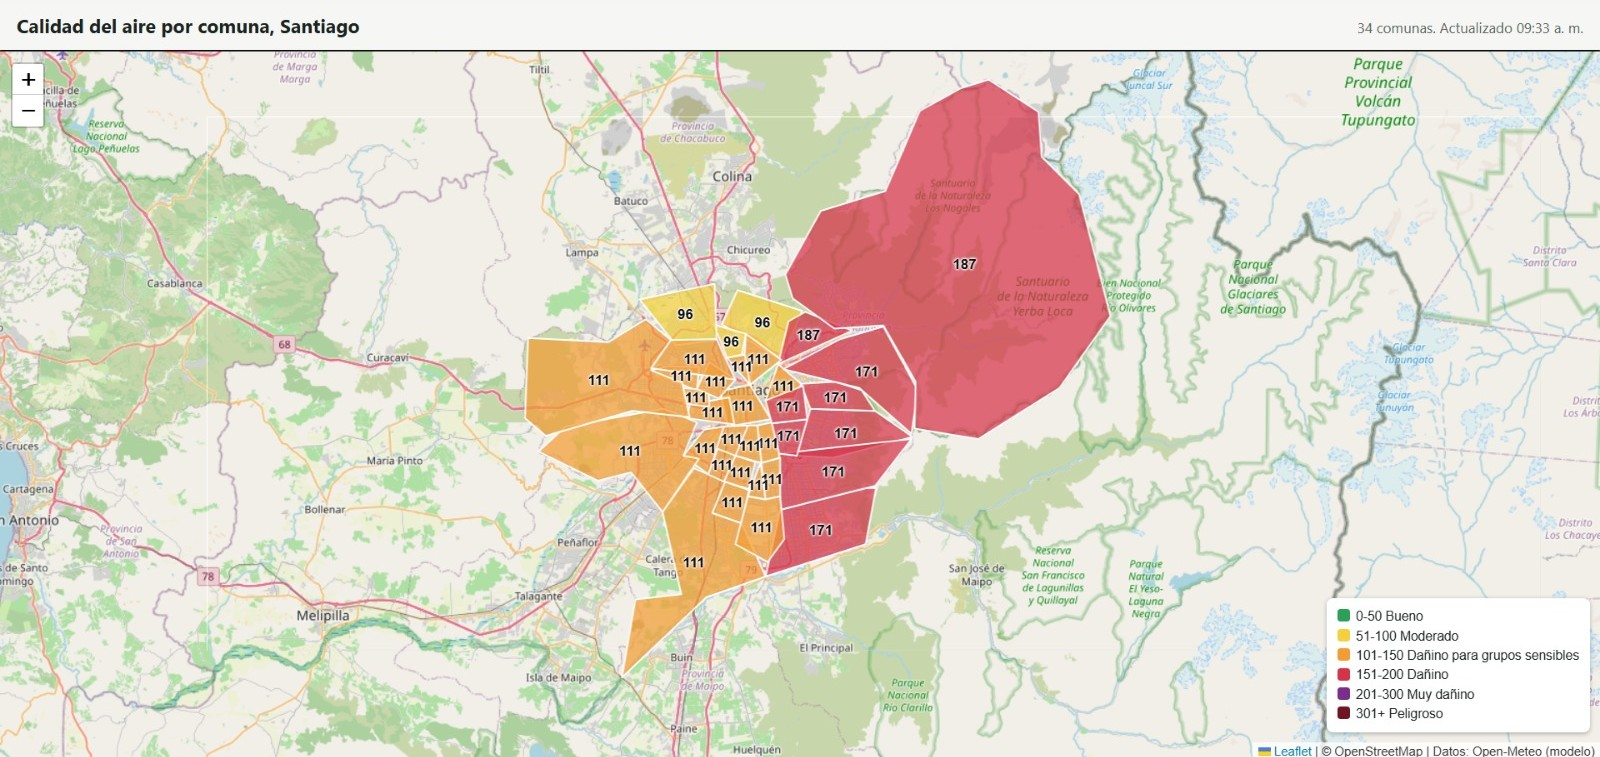
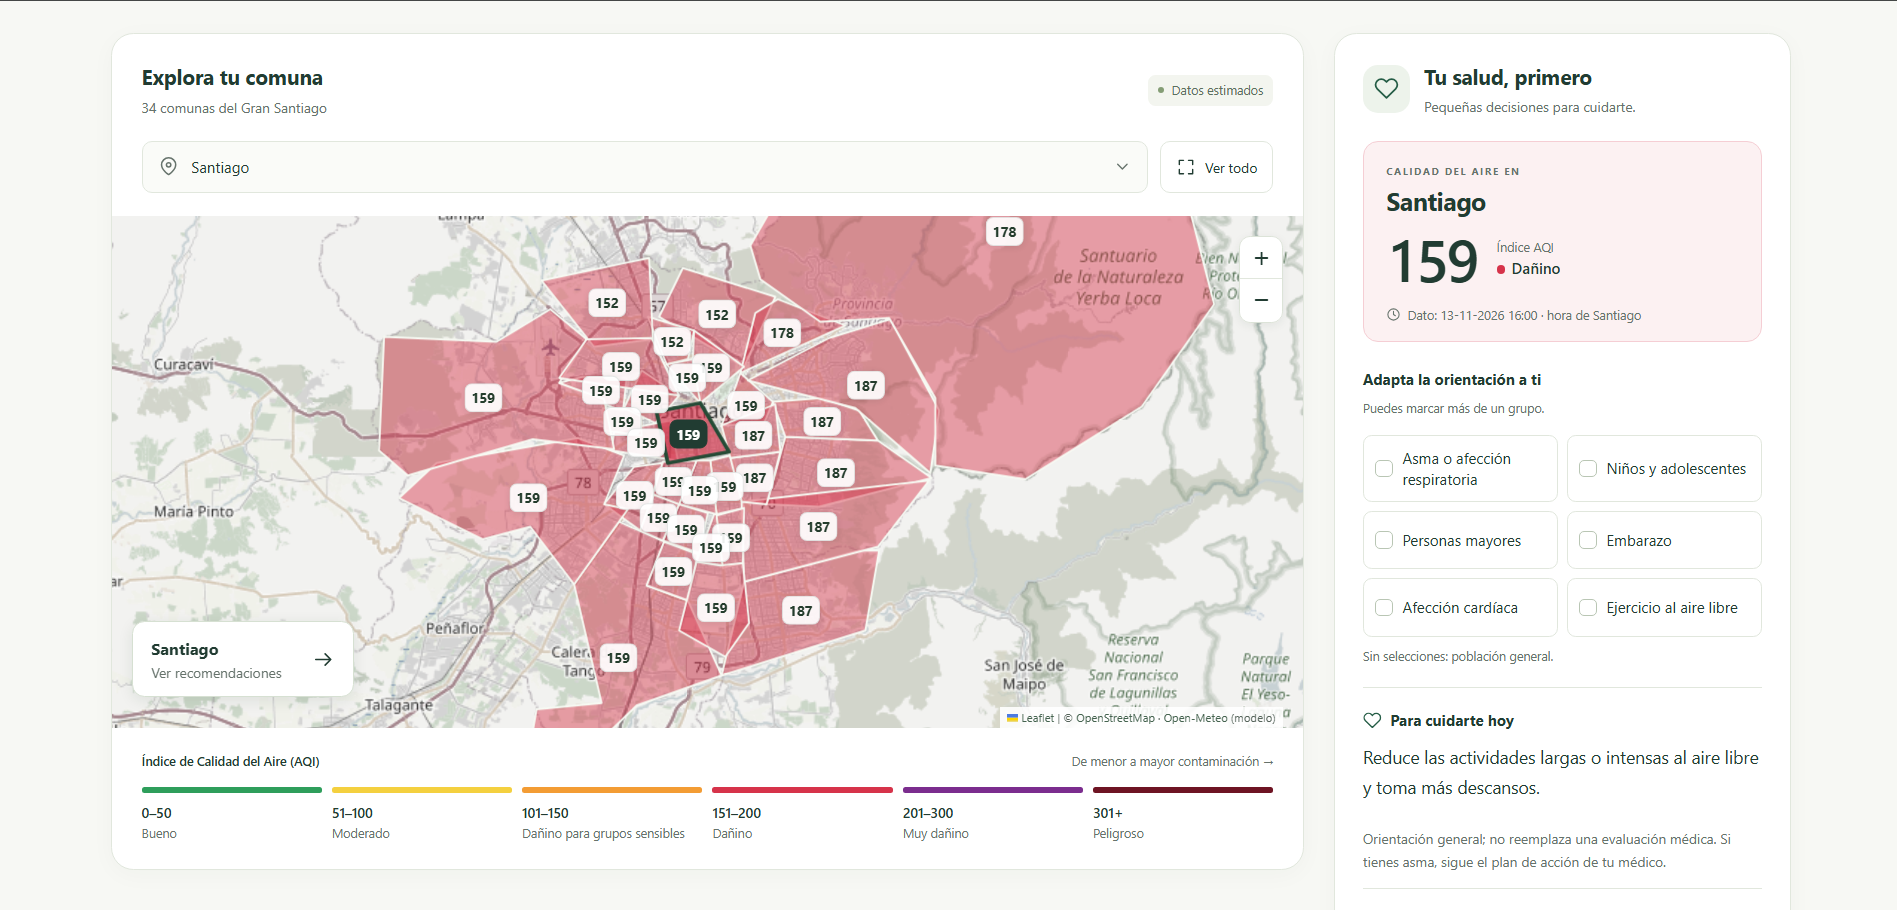
pythonanywhere

diff --git a/README.md b/README.md
@@ -1,155 +1,287 @@
 # Santiago500 sin smog
 
-Aplicación web que muestra la calidad del aire en las comunas del Gran Santiago sobre un mapa interactivo. Cada comuna se pinta con el color de su nivel de contaminación (índice AQI) y muestra el valor en el centro.
+**Conoce el aire que respiras.**
 
-Proyecto para el curso **IWG400 Proyecto Inicial**, Universidad Técnica Federico Santa María.
+Aplicación web en español para explorar la calidad del aire en las **34 comunas del Gran Santiago** y consultar orientación de salud según el índice AQI y distintos grupos de riesgo.
 
-![Mapa de calidad del aire por comuna](docs/mapa.png)
+**[Abrir la aplicación](https://vescoar.pythonanywhere.com/)** · [Repositorio](https://github.com/vescoar/santiago500)
 
-## Qué hace
+Proyecto desarrollado para **IWG400 — Proyecto Inicial**, Universidad Técnica Federico Santa María.
 
-- Mapa de Santiago con las 34 comunas del Gran Santiago coloreadas según su AQI.
-- Número de AQI en el centro de cada comuna (aparece al acercar el zoom, para que no se amontonen).
-- Selección de comuna desde el mapa o un selector accesible con teclado. La comuna queda resaltada y su ficha muestra nombre, AQI, categoría y fecha del dato.
-- Panel «Tu salud, primero»: orientación en español según el AQI y los grupos seleccionados (asma o afecciones respiratorias, infancia, personas mayores, embarazo, enfermedades cardiovasculares y ejercicio exterior). Permite combinar grupos y limpiar la selección; sin selecciones, orienta a la población general.
-- Interfaz adaptable a computador, tablet y celular, con leyenda fuera del mapa, acceso directo a las recomendaciones y una guía breve para interpretar los datos.
-- Vista inicial centrada en el área urbana; «Ver todo» muestra los límites completos de las comunas. El botón «Actualizar» permite volver a consultar los datos respetando la caché del servidor.
-- Leyenda con las categorías de la escala AQI de la EPA, de "Bueno" a "Peligroso".
-- Los datos se guardan en base de datos y se refrescan automáticamente cada 10 minutos.
-- Si la API externa falla, el mapa sigue mostrando los últimos datos guardados y avisa del problema.
+[![Mapa de calidad del aire con Santiago seleccionado y su panel de orientación de salud](docs/mapa.png)](https://vescoar.pythonanywhere.com/)
 
-## Tecnologías
+*Vista de la aplicación. Haz clic en la imagen para explorar el mapa; los valores mostrados corresponden al momento de la captura.*
 
-| Parte | Herramienta |
-|---|---|
-| Backend | Python y Django |
-| Base de datos | SQLite |
-| Mapa | Leaflet con teselas de OpenStreetMap |
-| Datos de calidad del aire | API de Open-Meteo (Air Quality) |
-| Límites de comunas | GeoJSON de [fcortes/Chile-GeoJSON](https://github.com/fcortes/Chile-GeoJSON) |
+## Propósito
+
+Acercar la información de calidad del aire a las personas y ayudar a interpretar lo que significa para sus actividades cotidianas. El mapa permite consultar una comuna y conectar su nivel de contaminación con orientación general de salud.
+
+Los valores provienen de un modelo atmosférico de Open-Meteo. **No son mediciones de estaciones locales ni reemplazan la información oficial o una evaluación médica.**
+
+## Cómo usar la aplicación
+
+1. Elige una comuna haciendo clic en el mapa o usando el selector.
+2. Consulta su AQI, categoría y fecha del dato en la ficha lateral.
+3. Marca los grupos que correspondan para adaptar la orientación. Puedes combinar varios; sin selecciones, se muestra orientación para la población general.
+4. Usa **Limpiar** para restablecer los grupos y **Ver todo** para ver los límites completos de las comunas.
+
+En celular, el panel de salud aparece debajo del mapa. El enlace **Ver recomendaciones** lleva directamente a él.
+
+## Funcionalidades
+
+- **Mapa por comuna:** polígonos coloreados según el AQI, etiquetas numéricas al acercar el mapa y resaltado de la comuna elegida.
+- **Orientación de salud:** consejos para asma u otras afecciones respiratorias, niños y adolescentes, personas mayores, embarazo, enfermedades cardiovasculares y ejercicio al aire libre.
+- **Navegación accesible:** selector utilizable con teclado, categorías escritas junto a los colores e interfaz adaptable a computador, tablet y celular.
+- **Persistencia:** almacenamiento de zonas de monitoreo y registros de AQI en SQLite.
+- **Consulta periódica:** el navegador vuelve a pedir información cada 10 minutos mientras la página permanece abierta. El botón **Actualizar** permite repetir la consulta manualmente.
+- **Manejo de fallos de la fuente externa:** ante errores de consulta controlados, se devuelven los últimos registros guardados y se muestra un aviso.
+- **Administración:** consulta de zonas y registros desde el administrador de Django.
 
 ## Cómo funciona
 
-1. El navegador carga la página del mapa y pide los datos a `/api/estaciones/`.
-2. Django revisa cuándo se guardó el último registro. Si tiene más de 10 minutos, consulta Open-Meteo, que entrega el AQI actual para un punto de cada comuna.
-3. Los resultados se guardan en dos modelos: `ZonaMonitoreo` (comuna y coordenadas) y `RegistroContaminacion` (AQI y hora).
-4. El endpoint devuelve el último registro de cada comuna en JSON.
-5. El frontend une esos datos con el archivo `comunas.geojson`, pinta cada polígono según su nivel y pone el número en su centro.
+1. Django entrega la página principal y el navegador carga los límites de las comunas desde `comunas.geojson`.
+2. El navegador consulta `/api/estaciones/`.
+3. Django busca el registro guardado más recientemente. Si no existe o fue creado hace más de 10 minutos, consulta Open-Meteo con las coordenadas aproximadas de las 34 comunas.
+4. Los datos nuevos se guardan en SQLite, evitando duplicados para una misma zona y fecha del dato.
+5. El endpoint devuelve el último AQI disponible por comuna. El navegador actualiza los colores, las etiquetas y la ficha seleccionada.
+6. La orientación se calcula en el navegador según el AQI y los grupos elegidos, sin enviar esas selecciones al servidor.
 
-## Limitaciones y decisiones de diseño
+La fecha del dato y la fecha de guardado son distintas. Una consulta exitosa puede devolver un dato con una fecha ya existente y no crear registros nuevos. **No hay un proceso programado que recolecte datos cuando nadie consulta la aplicación.**
 
-- **Los datos son modelados, no mediciones de estaciones.** Open-Meteo entrega estimaciones de un modelo atmosférico. Es una buena aproximación general, pero no reemplaza las mediciones oficiales.
-- **La resolución del modelo es más gruesa que una comuna.** Por eso comunas vecinas suelen compartir el mismo valor y el mismo color.
-- **Los polígonos incluyen zonas no urbanas.** Comunas como Lo Barnechea, Las Condes o Puente Alto llegan hasta la cordillera, y el color representa un solo punto de la comuna.
-- **Por qué no usamos estaciones reales:** primero probamos la API de WAQI/AQICN con las estaciones de Santiago, pero al momento de las pruebas todas reportaban `"aqi":"-"` con datos de hacía varios días. Por eso cambiamos a Open-Meteo, que siempre entrega datos actuales.
-- Las coordenadas usadas para cada comuna son aproximadas.
-- **La orientación de salud es general.** Los textos se adaptan de las guías [EPA/AirNow de partículas](https://document.airnow.gov/air-quality-guide-for-particle-pollution.pdf) y [ozono](https://document.airnow.gov/air-quality-guide-for-ozone.pdf). Como el mapa muestra el AQI agregado y no identifica el contaminante dominante, se usan precauciones generales, sin recomendar horarios específicos. No reemplazan una evaluación médica ni el plan de acción para el asma. Los grupos elegidos se mantienen solo en la página abierta y no se envían al servidor.
+## Tecnologías
 
-## Instalación (Windows)
+| Componente | Tecnología |
+| --- | --- |
+| Servidor y administración | Python y Django |
+| Base de datos | SQLite |
+| Interfaz | HTML, CSS y JavaScript |
+| Mapa interactivo | Leaflet |
+| Mapa base | OpenStreetMap |
+| Calidad del aire | API de Open-Meteo Air Quality |
+| Límites geográficos | GeoJSON de comunas de Chile |
+| Alojamiento de la versión publicada | PythonAnywhere |
 
-Requisitos: Python 3 y Git.
+### Modelo de datos
 
-```
-git clone https://github.com/TU_USUARIO/TU_REPOSITORIO.git
-cd TU_REPOSITORIO
+| Modelo | Información almacenada |
+| --- | --- |
+| `ZonaMonitoreo` | Identificador de la zona, nombre de la comuna, latitud y longitud. |
+| `RegistroContaminacion` | Zona asociada, AQI, fecha del dato (`medido_en`) y fecha de guardado (`creado_en`). |
+
+Una zona puede tener varios registros. La combinación de zona y fecha del dato es única. La interfaz muestra el registro más reciente; el historial se conserva en la base de datos.
+
+## Instalación local
+
+Requisitos: **Python 3.12 o superior**, Git y conexión a Internet para descargar dependencias, consultar la API y cargar los recursos externos del mapa. Las versiones de los paquetes están definidas en `requirements.txt`.
+
+### Windows
+
+Desde PowerShell o el Símbolo del sistema:
+
+```powershell
+git clone https://github.com/vescoar/santiago500.git
+cd santiago500
 python -m venv venv
-venv\Scripts\activate
-pip install -r requirements.txt
+.\venv\Scripts\python.exe -m pip install -r requirements.txt
+.\venv\Scripts\python.exe manage.py migrate
+.\venv\Scripts\python.exe manage.py runserver
+```
+
+Se utiliza directamente el Python del entorno virtual para evitar depender de su activación en PowerShell.
+
+### Linux o macOS
+
+```bash
+git clone https://github.com/vescoar/santiago500.git
+cd santiago500
+python3 -m venv venv
+source venv/bin/activate
+python -m pip install -r requirements.txt
 python manage.py migrate
 python manage.py runserver
 ```
 
-Luego abre http://localhost:8000.
+Abre **http://127.0.0.1:8000/**. La primera consulta puede tardar unos segundos mientras se obtienen los datos.
 
-Notas:
-- Usa el **Símbolo del sistema (cmd)**. En PowerShell, la activación del entorno virtual puede estar bloqueada.
-- No hace falta ningún token ni archivo `.env` para los datos de Open-Meteo.
-- La primera carga puede demorar unos segundos, porque en ese momento se consultan los datos.
-- Para ver los datos guardados, crea un administrador con `python manage.py createsuperuser` y entra a `/admin`.
+Open-Meteo no requiere un token para esta integración. El GeoJSON ya viene incluido. La base `db.sqlite3` se crea con las migraciones y no se incluye en el repositorio.
 
-## Archivos estáticos en Vercel
+Para acceder a `/admin/`, ejecuta `python manage.py createsuperuser` usando el Python de tu entorno virtual.
 
-Con el soporte nativo de Django de Vercel, `STATIC_ROOT` activa la recopilación automática de archivos durante el despliegue. Vercel publica el contenido de `staticfiles/` en `/static/` desde su CDN. Esto incluye el CSS, los scripts, el GeoJSON y los estilos del administrador, incluso con `DEBUG=False`.
+## Despliegue en PythonAnywhere
 
-La carpeta `staticfiles/` se genera durante el build y no se sube al repositorio. Para comprobar la recopilación localmente:
+La versión publicada utiliza Django con SQLite y archivos estáticos servidos por PythonAnywhere. Para repetir el despliegue, sustituye `TU_USUARIO` por el usuario de la cuenta.
 
+### 1. Preparar el proyecto
+
+En una consola **Bash de PythonAnywhere**:
+
+```bash
+git clone https://github.com/vescoar/santiago500.git
+cd ~/santiago500
+mkvirtualenv --python=/usr/bin/python3.13 santiago500-env
+pip install -r requirements.txt
 ```
+
+### 2. Configurar la copia de producción
+
+El código del repositorio conserva configuración de desarrollo. En la copia del servidor, reemplaza las asignaciones correspondientes de `santiago500sinsmog/settings.py` por:
+
+```python
+SECRET_KEY = os.environ["DJANGO_SECRET_KEY"]
+DEBUG = False
+ALLOWED_HOSTS = ["TU_USUARIO.pythonanywhere.com"]
+```
+
+Para generar la clave en un archivo `.env` sin mostrarla en pantalla, ejecuta desde la carpeta que contiene `manage.py`:
+
+```bash
+python -c "from pathlib import Path; import secrets; f = Path('.env').open('a'); f.write('\nDJANGO_SECRET_KEY=' + secrets.token_urlsafe(50) + '\n'); f.close()"
+```
+
+La configuración ya carga `.env` desde esa carpeta. Tanto ese archivo como la base SQLite y los archivos estáticos recopilados están excluidos del repositorio.
+
+```bash
+python manage.py migrate
 python manage.py collectstatic --noinput
+python manage.py check
 ```
 
-Después de subir cambios a la configuración, realiza un nuevo despliegue. La carpeta raíz del proyecto en Vercel debe ser la que contiene `manage.py` y `requirements.txt`.
+### 3. Crear la aplicación web
 
-Referencia: [Django en Vercel: archivos estáticos](https://vercel.com/docs/frameworks/full-stack/django#serving-static-assets).
+En **Web → Add a new web app**, selecciona **Manual configuration** y **Python 3.13**, la misma versión del entorno virtual.
 
-## Estructura del proyecto
+| Campo | Valor |
+| --- | --- |
+| Source code | `/home/TU_USUARIO/santiago500` |
+| Working directory | `/home/TU_USUARIO/santiago500` |
+| Virtualenv | `/home/TU_USUARIO/.virtualenvs/santiago500-env` |
 
+En el archivo **WSGI configuration file** enlazado desde la pestaña Web, utiliza:
+
+```python
+import os
+import sys
+
+project_path = "/home/TU_USUARIO/santiago500"
+if project_path not in sys.path:
+    sys.path.insert(0, project_path)
+
+os.environ["DJANGO_SETTINGS_MODULE"] = "santiago500sinsmog.settings"
+
+from django.core.wsgi import get_wsgi_application
+
+application = get_wsgi_application()
 ```
-santiago500sinsmog/
+
+### 4. Publicar los archivos estáticos
+
+En **Web → Static files**, añade:
+
+| URL | Directorio |
+| --- | --- |
+| `/static/` | `/home/TU_USUARIO/santiago500/staticfiles` |
+
+Pulsa **Reload**. Comprueba la página principal, `/static/santiago500/mapa.css` y `/api/estaciones/`. Ante un error, consulta **Web → Log files → Error log**.
+
+Después de actualizar estilos o scripts, vuelve a ejecutar `python manage.py collectstatic --noinput` y pulsa **Reload**. Conserva la configuración de producción al actualizar el código.
+
+Referencias: [desplegar un proyecto Django existente](https://help.pythonanywhere.com/pages/DeployExistingDjangoProject/) y [configurar archivos estáticos](https://help.pythonanywhere.com/pages/DjangoStaticFiles/).
+
+## Rutas disponibles
+
+| Ruta | Resultado |
+| --- | --- |
+| `/` | Mapa y orientación de salud. |
+| `/api/estaciones/` | JSON con `estaciones` y `aviso`. Cada entrada incluye nombre, coordenadas, AQI y fecha del dato. |
+| `/admin/` | Administración de zonas y registros; requiere una cuenta autorizada. |
+
+El nombre `/api/estaciones/` se conserva, aunque actualmente representa comunas con datos modelados y no estaciones físicas.
+
+## Estructura del repositorio
+
+```text
+santiago500/
 ├── manage.py
 ├── requirements.txt
-├── preparar_comunas.py          # genera comunas.geojson a partir de los límites de Chile
-├── santiago500sinsmog/          # configuración de Django (settings.py, urls.py)
-└── santiago500/                 # aplicación
-    ├── models.py                # ZonaMonitoreo y RegistroContaminacion
-    ├── services.py              # consulta a Open-Meteo y guardado de datos
-    ├── views.py                 # página del mapa y endpoint JSON
+├── preparar_comunas.py          # Generación del GeoJSON
+├── santiago500sinsmog/          # Configuración y entrada de Django
+├── tests/
+│   └── salud.test.cjs           # Pruebas de la lógica de orientación
+└── santiago500/                 # Aplicación principal
+    ├── models.py               # Zonas y registros de contaminación
+    ├── services.py             # Consulta a Open-Meteo y persistencia
+    ├── views.py                # Página y endpoint de datos
     ├── urls.py
     ├── admin.py
+    ├── migrations/
     ├── static/santiago500/
-    │   ├── comunas.geojson      # límites de las 34 comunas
-    │   ├── mapa.css             # diseño adaptable y estilos del mapa
-    │   ├── mapa.js              # selección, mapa y actualización de la interfaz
-    │   └── salud.js             # categorías AQI y orientación por grupo
+    │   ├── comunas.geojson     # Límites de las 34 comunas
+    │   ├── mapa.css            # Diseño adaptable
+    │   ├── mapa.js             # Interacciones y carga de datos
+    │   └── salud.js            # Categorías AQI y orientación
     └── templates/santiago500/
-        └── mapa.html            # mapa con Leaflet
+        └── mapa.html
 ```
 
-## Endpoints
+## Comprobaciones
 
-| Ruta | Descripción |
-|---|---|
-| `/` | Mapa de calidad del aire |
-| `/api/estaciones/` | Último AQI de cada comuna en JSON (`estaciones` y `aviso`) |
-| `/admin/` | Administración de Django |
+Con el entorno de Python del proyecto:
 
-## Regenerar los límites de comunas
-
-El archivo `comunas.geojson` ya viene incluido. Si necesitas regenerarlo:
-
-```
-python preparar_comunas.py
+```bash
+python manage.py check
 ```
 
-El script descarga los límites de todas las comunas de Chile y conserva solo las 34 del Gran Santiago.
+Para las pruebas de orientación, necesitas **Node.js 18 o superior**, sin instalar paquetes adicionales:
 
-## Posibles mejoras
-
-- Usar estaciones de monitoreo reales (por ejemplo, las del SINCA) cuando haya una fuente de datos confiable y de libre acceso.
-- Historial y gráficos de la evolución del AQI por comuna.
-- Alertas cuando una comuna supere un umbral.
-- Actualización programada de datos, sin depender de que alguien abra la página.
-
-## Comprobar la orientación de salud
-
-Con Node.js 18 o superior, sin instalar paquetes adicionales:
-
-```
+```bash
 node --test tests/salud.test.cjs
 ```
 
-Las pruebas verifican los límites AQI, las precauciones para grupos combinados y el rechazo de valores inválidos. Para probar la interfaz, abre el mapa, elige una comuna (con un clic o con el selector) y cambia los grupos del panel; la orientación se actualiza sin volver a consultar la API. En celular, el enlace «Ver recomendaciones» lleva a la ficha debajo del mapa.
+La suite verifica los límites de las categorías AQI, las diferencias entre población general y grupos sensibles, la combinación de perfiles y el rechazo de valores inválidos. Estas pruebas comprueban la lógica del programa; no constituyen una validación clínica.
 
-## Créditos
+Para revisar la interfaz, selecciona una comuna, combina grupos y comprueba que la orientación cambie. Prueba también **Limpiar**, el selector con teclado y el enlace móvil **Ver recomendaciones**.
 
-- Datos de calidad del aire: [Open-Meteo](https://open-meteo.com/)
-- Mapa base: © colaboradores de [OpenStreetMap](https://www.openstreetmap.org/copyright)
-- Biblioteca de mapas: [Leaflet](https://leafletjs.com/)
-- Límites de comunas: [fcortes/Chile-GeoJSON](https://github.com/fcortes/Chile-GeoJSON), basado en datos de la Biblioteca del Congreso Nacional de Chile
+### Regenerar los límites geográficos
+
+Solo es necesario si quieres reconstruir el archivo incluido:
+
+```bash
+python preparar_comunas.py
+```
+
+Ejecuta el comando desde la carpeta de `manage.py`. El script descarga los límites de Chile, filtra las 34 comunas del Gran Santiago y escribe `santiago500/static/santiago500/comunas.geojson`.
+
+## Alcance y limitaciones
+
+- **Cobertura:** las 32 comunas de la provincia de Santiago, más Puente Alto y San Bernardo.
+- **Representación aproximada:** se consulta un punto por comuna. El color de todo el polígono no representa variaciones internas y los límites pueden incluir sectores rurales o cordilleranos.
+- **Resolución del modelo:** comunas cercanas pueden tener el mismo valor. La escala visual del mapa no implica precisión a nivel de calle.
+- **Disponibilidad:** la API externa puede fallar o devolver datos con una fecha ya consultada. La ficha permite revisar la fecha del dato en hora de Santiago.
+- **Orientación general:** se adapta de las guías EPA/AirNow de partículas y ozono. No identifica el contaminante dominante ni reemplaza una evaluación médica. Las personas con asma deben seguir el plan de acción indicado por su médico.
+- **Selecciones de salud:** permanecen en la página abierta y no se guardan en la base de datos.
+- **Contaminantes:** aunque la consulta solicita también PM2.5, actualmente solo se guarda y presenta el AQI.
+
+Durante el desarrollo se evaluó WAQI/AQICN. Según las pruebas documentadas del equipo, las estaciones consultadas no entregaban valores de AQI utilizables en ese momento. Se optó por Open-Meteo, comunicando que sus datos son estimaciones.
+
+## Posibles mejoras
+
+- Recolección programada independiente de las visitas al sitio.
+- Visualización del historial de AQI por comuna.
+- Incorporación de contaminantes individuales y sus unidades.
+- Integración de mediciones oficiales cuando exista una fuente adecuada.
+
+## Fuentes y créditos
+
+- [Open-Meteo Air Quality](https://open-meteo.com/en/docs/air-quality-api): datos de calidad del aire basados en modelos CAMS.
+- [OpenStreetMap](https://www.openstreetmap.org/copyright): mapa base y sus colaboradores.
+- [Leaflet](https://leafletjs.com/): biblioteca del mapa interactivo.
+- [Chile-GeoJSON, de fcortes](https://github.com/fcortes/Chile-GeoJSON): límites comunales.
+- EPA/AirNow: guías de [contaminación por partículas](https://document.airnow.gov/air-quality-guide-for-particle-pollution.pdf) y [ozono](https://document.airnow.gov/air-quality-guide-for-ozone.pdf), utilizadas para adaptar la orientación de salud.
 
 ## Equipo
 
-Vicente Escobar
-Christian Franco
-Antonia Estrada
-Alexander Friant
-Jose Francisco Escobar
+- Vicente Escobar
+- Christian Franco
+- Antonia Estrada
+- Alexander Friant
+- Jose Francisco Escobar
